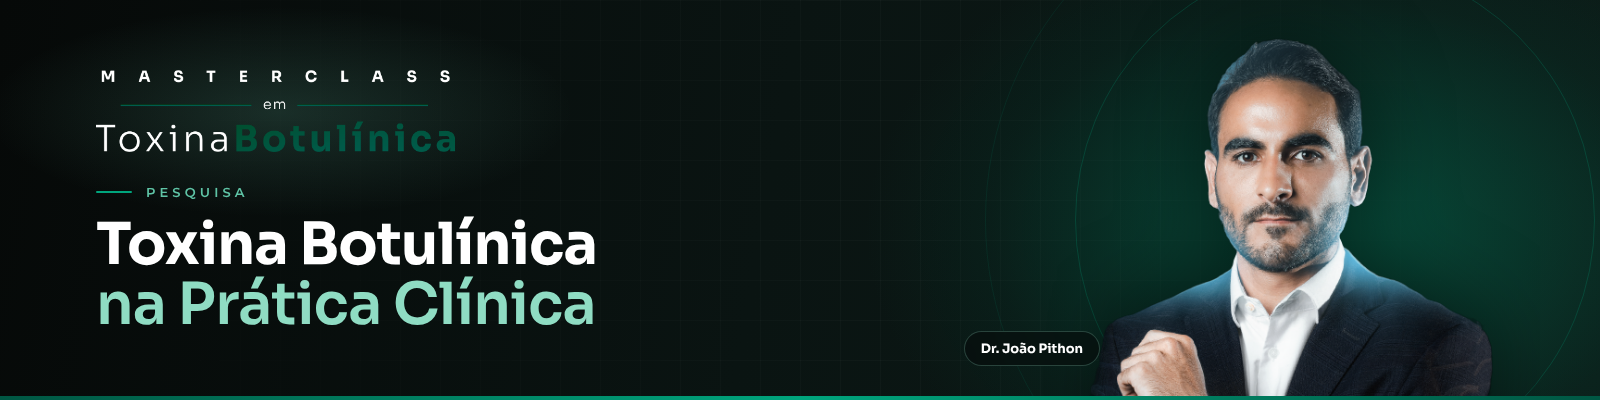
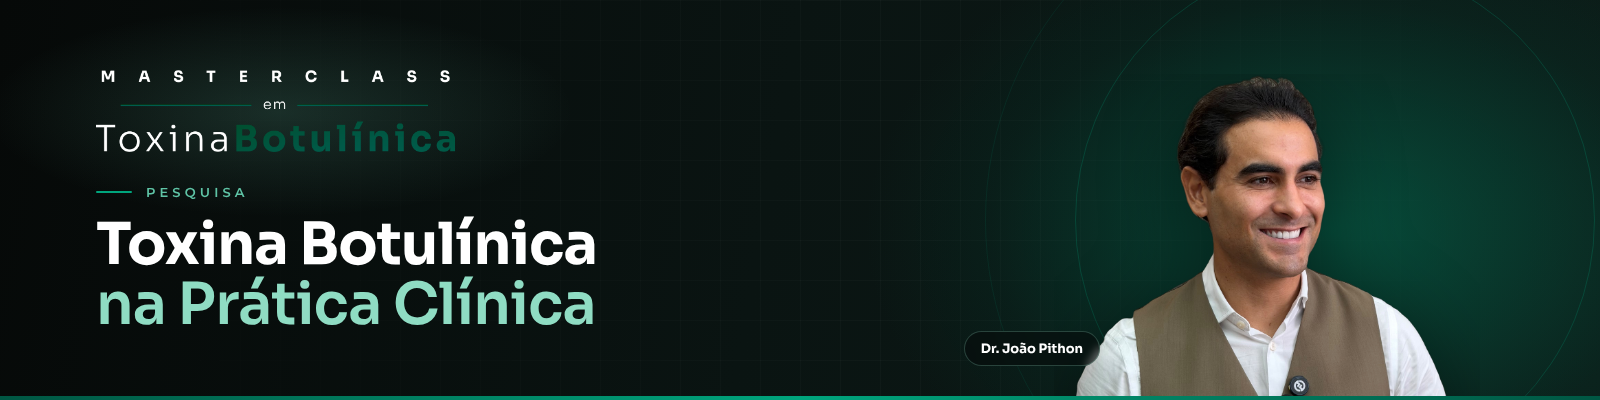
Capa: troca a foto do Dr. João por foto natural da clínica, com recorte limpo
Claude-Session: https://claude.ai/code/session_0117TgWWbbKrMnCGmH3B4xTx

Changed region(s): [[0.6562, 0.09, 0.9375, 0.99]]

diff --git a/FEA-capa-formulario-toxina/FEA-capa-formulario-toxina.html b/FEA-capa-formulario-toxina/FEA-capa-formulario-toxina.html
@@ -18,9 +18,7 @@ body{width:1600px;height:400px;overflow:hidden;background:#070B0A}
 .eyebrow:before{content:"";width:36px;height:2px;background:#00A57D;border-radius:2px}
 h1{font:700 58px/1.04 Sora;color:#fff;letter-spacing:-.015em}
 h1 span{display:block;font-weight:600;color:#8FDCC3}
-.photo{position:absolute;right:60px;bottom:-80px;height:500px;
- -webkit-mask-image:linear-gradient(90deg,transparent 0%,#000 14%,#000 100%),linear-gradient(0deg,transparent 0,#000 30px);
- -webkit-mask-composite:source-in;mask-composite:intersect;filter:drop-shadow(0 0 40px rgba(0,0,0,.5))}
+.photo{position:absolute;right:120px;top:74px;height:540px;-webkit-mask-image:linear-gradient(0deg,transparent 0,#000 60px);filter:drop-shadow(0 18px 40px rgba(0,0,0,.45))}
 .tag{position:absolute;right:500px;bottom:34px;font:500 13px/1.3 Montserrat;color:rgba(255,255,255,.82);text-align:right;
  background:rgba(6,10,9,.55);border:1px solid rgba(143,220,195,.25);border-radius:999px;padding:8px 16px;backdrop-filter:blur(4px)}
 .tag b{font:700 13px Sora;color:#fff}
